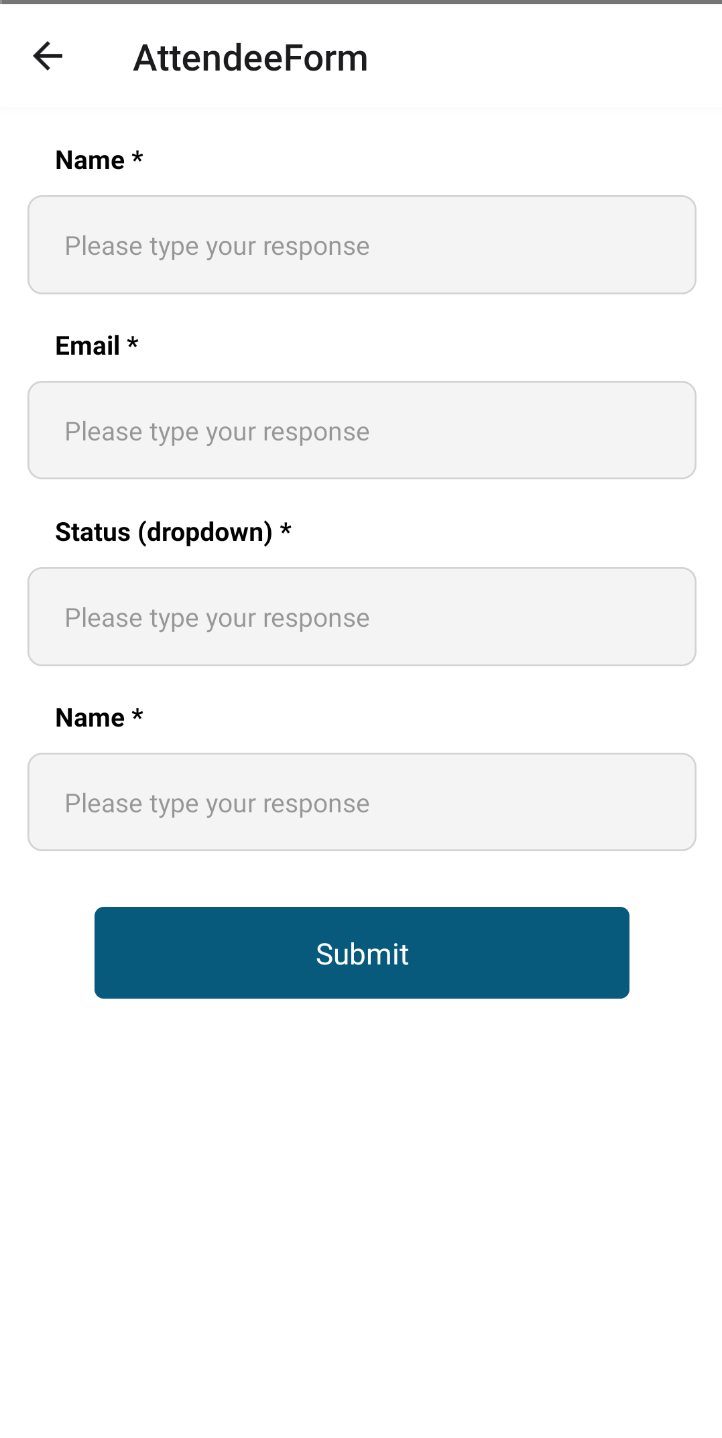
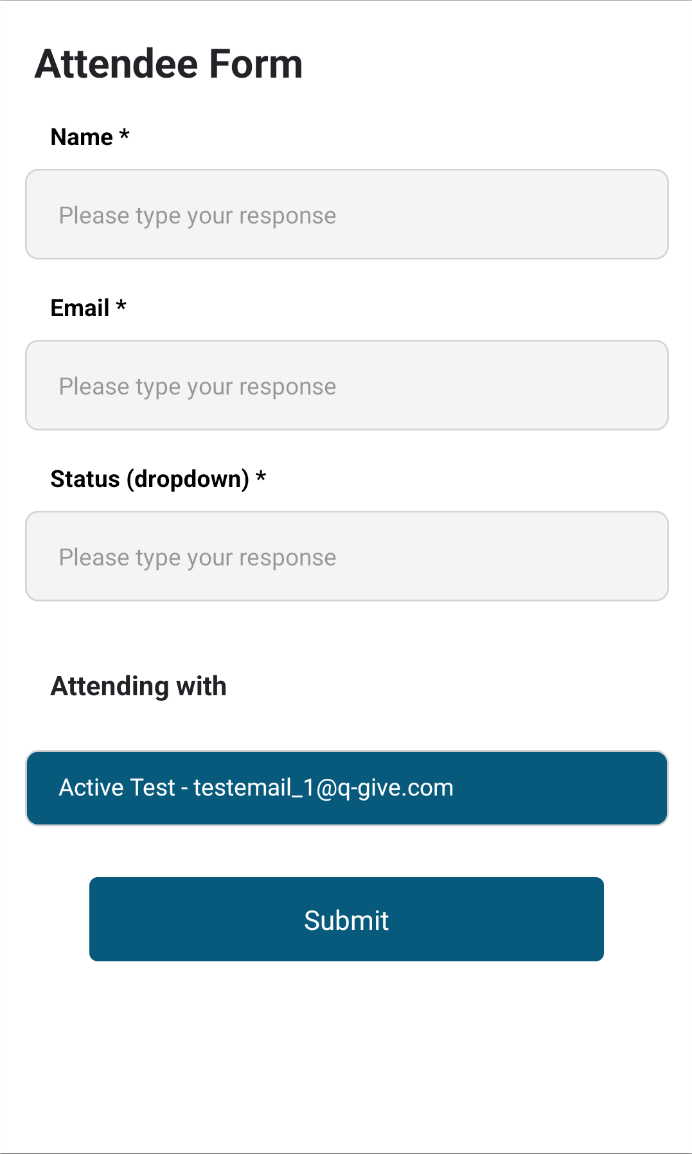
form

diff --git a/modules/screen-blackbaud-attendee-form/index.js b/modules/screen-blackbaud-attendee-form/index.js
@@ -1,9 +1,44 @@
-import React from "react";
+import React, {useEffect, useState} from "react";
 import { ScrollView, StyleSheet, View, TextInput, Text, Pressable } from "react-native";
+import { useDispatch, useSelector } from "react-redux"
+import { useIsFocused } from "@react-navigation/native"
+import { attendeeList } from "../../modules/blackbaud/store"
 
-const AttendeeForm = () => {
+const AttendeeForm = props => {
+  const dispatch = useDispatch()
+  const { route } = props
+  const { params } = route
+  const isFocused = useIsFocused()
+  const token = useSelector(state => state.Events.accessToken)
+  const { entities: attendees } = useSelector(
+    state => state.Events.attendeeList
+  )
+  useEffect(() => {
+    if (isFocused) {
+      dispatch(
+        attendeeList({
+          id: params?.eventId,
+          token: token
+        })
+      )
+    }
+  }, [isFocused])
+
+  const [selectedAttendee, setSelectedAttendee] = useState(null)
+
+  const selectAttendee = (id) => {
+    // toggle selection
+    if (selectedAttendee === id) {
+      setSelectedAttendee(null)
+    }
+    else {
+      setSelectedAttendee(id)
+    }
+  }
+
   return <View style={styles.container}>
       <ScrollView>
+        <Text style={styles.title}>Attendee Form</Text>
         <View style={styles.attendeeForm}>
           <View style={styles.inputGroup}>
             <Text style={styles.label}>Name *</Text>
@@ -18,10 +53,23 @@ const AttendeeForm = () => {
             <TextInput placeholder="Please type your response" style={styles.formInput} />
           </View>
           <View style={styles.inputGroup}>
-            <Text style={styles.label}>Name *</Text>
-            <TextInput placeholder="Please type your response" style={styles.formInput} />
+          {attendees.length > 0 && (<><Text style={styles.attendingWith}>Attending with</Text>
+              <View style={styles.inputGroup}>
+                {attendees?.map((item, index) => {
+                  return <Text key={index} style={[
+                        styles.formInput,
+                       {
+                        backgroundColor: selectedAttendee === item.id ? "#075a7c" : "#fff",
+                        color: selectedAttendee === item.id ? "#fff" : "#000"
+                      }
+                  ]} onPress={() => selectAttendee(item.id)} >
+                      {item.name} - {item.email}
+                    </Text>;
+                }
+                )}
+              </View></>)
+            }
           </View>
-
           <View style={styles.buttonGroup}>
             <Pressable style={styles.loginButton} onPress={() => {}} >
               <Text style={styles.textColor}>
@@ -39,6 +87,13 @@ const styles = StyleSheet.create({
   container: {
     backgroundColor: "white",
     flex: 1
+  },
+  title: {
+    fontSize: 24,
+    fontWeight: "bold",
+    color: "#212327",
+    marginTop: 20,
+    marginLeft: 20
   },
   buttonGroup: {
     marginTop: 30
@@ -78,6 +133,13 @@ const styles = StyleSheet.create({
     fontWeight: "500",
     color: "#fff",
     fontSize: 16
+  },
+  attendingWith: {
+    marginTop: 20,
+    fontSize: 16,
+    fontWeight: "bold",
+    color: "#212327",
+    marginLeft: 15,
   }
 });
 export default AttendeeForm;
